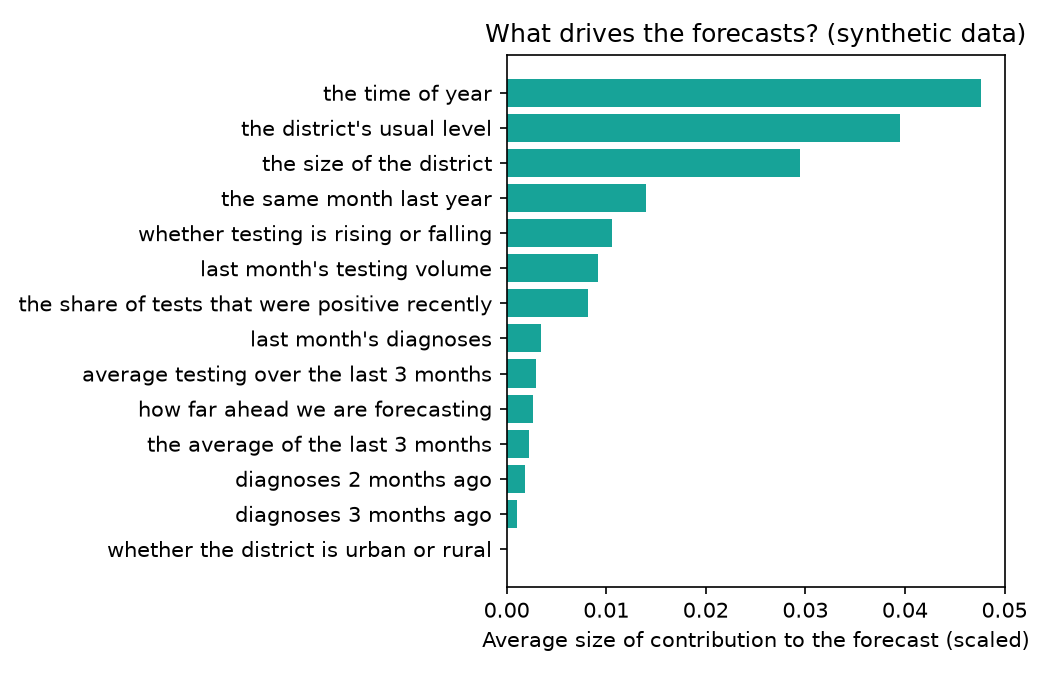
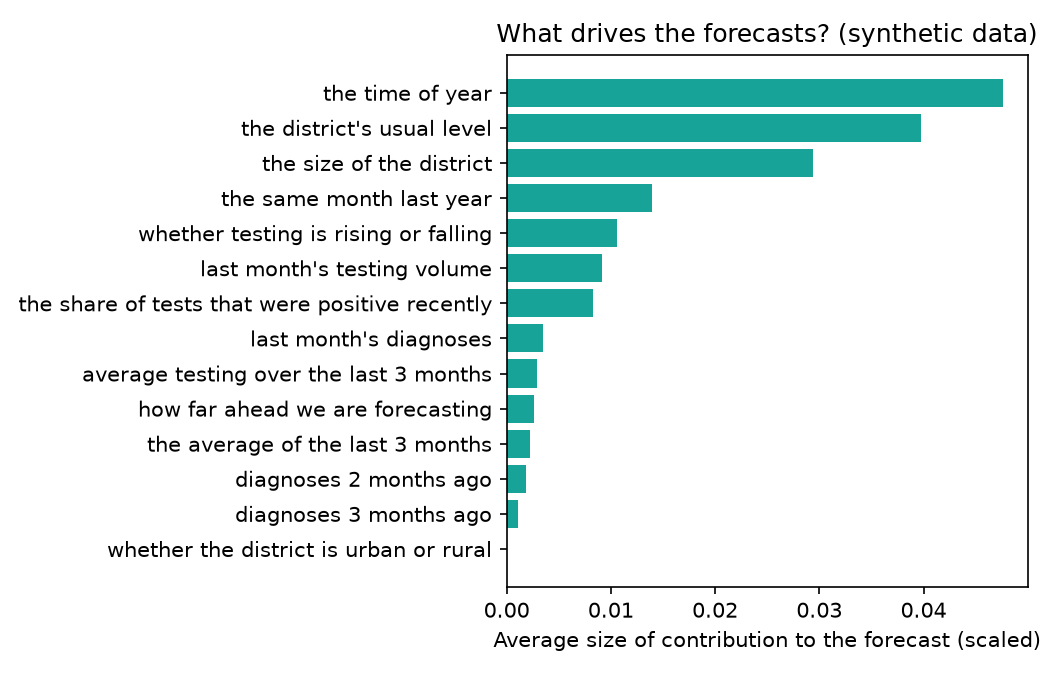
feat: add results report with equity tables

diff --git a/src/report.py b/src/report.py
@@ -1,0 +1,128 @@
+"""Run every experiment and write ONE results document: docs/results.md
+
+This is the evidence for the project: baselines vs gradient boosting, the ablation,
+interval honesty (coverage, WIS), and equity breakdowns by urban/rural and district size.
+
+Run:  python src/report.py        (about 1 minute)
+"""
+from datetime import date
+from pathlib import Path
+
+import pandas as pd
+
+from evaluate import FIRST_ORIGIN, HORIZON, STEP, rolling_origin
+from gbm import TESTING_FEATURES, gbm_rolling_origin
+from intervals import interval_rolling_origin
+
+
+def md_table(df, index_name="", digits=2):
+    """Small markdown table writer (no extra libraries needed)."""
+    cols = list(df.columns)
+    head = "| " + " | ".join([index_name] + [str(c) for c in cols]) + " |"
+    rule = "|" + "---|" * (len(cols) + 1)
+    rows = []
+    for idx, row in df.iterrows():
+        cells = [f"{v:.{digits}f}" if isinstance(v, float) else str(v) for v in row]
+        rows.append("| " + " | ".join([str(idx)] + cells) + " |")
+    return "\n".join([head, rule] + rows)
+
+
+def mase_table(res, by):
+    return res.pivot_table(index="model", columns=by, values="scaled_error").round(2)
+
+
+def main():
+    df = pd.read_csv("data/synthetic/district_months.csv")
+    print("Running baselines ...")
+    acc = pd.concat([
+        rolling_origin(df),
+        gbm_rolling_origin(df),
+        gbm_rolling_origin(df, exclude=TESTING_FEATURES, name="gbm_no_testing"),
+    ], ignore_index=True)
+    print("Running intervals ...")
+    iv = interval_rolling_origin(df)
+
+    overall = acc.groupby("model")["scaled_error"].mean().round(3).to_frame("MASE")
+    best_base = overall.loc[["naive", "seasonal_naive", "exp_smoothing"], "MASE"].min()
+    gain = (1 - overall.loc["gbm", "MASE"] / best_base) * 100
+
+    parts = []
+    for col in ["horizon", "urban_rural", "size_class", "campaign"]:
+        t = iv.groupby(col).agg(coverage_80=("in80", "mean"), coverage_95=("in95", "mean"),
+                                WIS=("wis_scaled", "mean"), n=("in80", "size")).round(3)
+        t["n"] = t["n"].astype(int)
+        parts.append(f"**By {col}**\n\n" + md_table(t, col, 3))
+
+    g = mase_table(acc, "urban_rural")
+    gs = mase_table(acc, "size_class")
+    gap_rows = pd.DataFrame({
+        "gbm MASE": [g.loc["gbm", "rural"], g.loc["gbm", "urban"], gs.loc["gbm", "small"], gs.loc["gbm", "large"]],
+    }, index=["rural", "urban", "small districts", "large districts"])
+
+    text = f"""# Results (SYNTHETIC DATA ONLY)
+
+Generated {date.today().isoformat()} by `src/report.py`. These results show that the workflow
+works. They say NOTHING about Malawi, because the data were generated by `src/generate_data.py`.
+
+## Setup
+- Target: monthly new HIV diagnoses per district (a proxy for infections; depends on testing)
+- {df['district'].nunique()} districts x {df['month_index'].nunique()} months; {int(df['new_diagnoses'].isna().sum())} blank months ({df['new_diagnoses'].isna().mean():.1%})
+- Evaluation: rolling origin, first cut-off month {FIRST_ORIGIN}, every {STEP} months, horizons 1 to {HORIZON}
+- Metric: MASE (1.0 = about as good as repeating last month; lower is better)
+
+## 1. Accuracy
+Overall MASE by model:
+
+{md_table(overall, "model", 3)}
+
+Gradient boosting is {gain:.0f}% better than the best baseline overall.
+
+**By horizon (months ahead)**
+
+{md_table(mase_table(acc, "horizon"), "model")}
+
+**By urban/rural**
+
+{md_table(g, "model")}
+
+**By district size**
+
+{md_table(gs, "model")}
+
+**Campaign months (1) vs normal months (0)**
+
+{md_table(mase_table(acc, "campaign"), "model")}
+
+## 2. Ablation: does knowing about testing help?
+`gbm_no_testing` hides the four testing inputs. If its score is close to `gbm`, the gain over
+the baselines does not come from testing information.
+
+## 3. Interval honesty
+80% and 95% prediction intervals from quantile gradient boosting. Coverage is the share of
+real outcomes inside the interval (targets: 0.80 and 0.95). WIS is the scaled weighted interval score.
+
+Overall: coverage 80% = {iv.in80.mean():.3f}, coverage 95% = {iv.in95.mean():.3f}, WIS = {iv.wis_scaled.mean():.3f}
+
+""" + "\n\n".join(parts) + f"""
+
+## 4. Equity summary (gradient boosting)
+
+{md_table(gap_rows, "group", 2)}
+
+Rural districts and small districts are harder to forecast. Campaign months break every method.
+Group sizes differ greatly (see n above), so small differences should not be over-interpreted.
+
+## 5. Limitations
+- Synthetic data: patterns were built in by us, so results are optimistic and not about Malawi
+- Diagnoses are a proxy for infections and depend on testing; campaign timing is unknown to the models
+- No tuning: gradient boosting settings were chosen once, not optimised
+- Forecasts from the same district are correlated, so effective sample sizes are smaller than n
+- Intervals are mildly overconfident and fail in campaign months
+"""
+    Path("docs").mkdir(exist_ok=True)
+    Path("docs/results.md").write_text(text)
+    print("Wrote docs/results.md")
+
+
+if __name__ == "__main__":
+    main()

diff --git a/tests/test_report.py b/tests/test_report.py
@@ -1,0 +1,12 @@
+import sys
+from pathlib import Path
+
+import pandas as pd
+
+sys.path.insert(0, str(Path(__file__).resolve().parents[1] / "src"))
+from report import md_table  # noqa: E402
+
+
+def test_md_table_layout():
+    t = md_table(pd.DataFrame({"a": [1.234]}, index=["x"]), "name", 2)
+    assert t.splitlines() == ["| name | a |", "|---|---|", "| x | 1.23 |"]

diff --git a/docs/results.md b/docs/results.md
@@ -1,0 +1,125 @@
+# Results (SYNTHETIC DATA ONLY)
+
+Generated 2026-11-05 by `src/report.py`. These results show that the workflow
+works. They say NOTHING about Malawi, because the data were generated by `src/generate_data.py`.
+
+## Setup
+- Target: monthly new HIV diagnoses per district (a proxy for infections; depends on testing)
+- 28 districts x 72 months; 105 blank months (5.2%)
+- Evaluation: rolling origin, first cut-off month 36, every 3 months, horizons 1 to 6
+- Metric: MASE (1.0 = about as good as repeating last month; lower is better)
+
+## 1. Accuracy
+Overall MASE by model:
+
+| model | MASE |
+|---|---|
+| exp_smoothing | 0.855 |
+| gbm | 0.755 |
+| gbm_no_testing | 0.751 |
+| naive | 1.100 |
+| seasonal_naive | 1.006 |
+
+Gradient boosting is 12% better than the best baseline overall.
+
+**By horizon (months ahead)**
+
+| model | 1 | 2 | 3 | 4 | 5 | 6 |
+|---|---|---|---|---|---|---|
+| exp_smoothing | 0.86 | 0.92 | 0.83 | 0.82 | 0.86 | 0.84 |
+| gbm | 0.76 | 0.78 | 0.74 | 0.75 | 0.76 | 0.75 |
+| gbm_no_testing | 0.76 | 0.78 | 0.73 | 0.75 | 0.74 | 0.74 |
+| naive | 0.98 | 1.09 | 1.07 | 1.08 | 1.21 | 1.17 |
+| seasonal_naive | 0.95 | 1.07 | 1.06 | 0.92 | 1.01 | 1.03 |
+
+**By urban/rural**
+
+| model | rural | urban |
+|---|---|---|
+| exp_smoothing | 0.86 | 0.80 |
+| gbm | 0.77 | 0.66 |
+| gbm_no_testing | 0.76 | 0.65 |
+| naive | 1.11 | 1.04 |
+| seasonal_naive | 1.02 | 0.93 |
+
+**By district size**
+
+| model | large | medium | small |
+|---|---|---|---|
+| exp_smoothing | 0.77 | 0.85 | 0.91 |
+| gbm | 0.68 | 0.74 | 0.82 |
+| gbm_no_testing | 0.68 | 0.74 | 0.82 |
+| naive | 1.04 | 1.08 | 1.17 |
+| seasonal_naive | 0.91 | 0.99 | 1.09 |
+
+**Campaign months (1) vs normal months (0)**
+
+| model | 0 | 1 |
+|---|---|---|
+| exp_smoothing | 0.83 | 1.36 |
+| gbm | 0.72 | 1.28 |
+| gbm_no_testing | 0.72 | 1.29 |
+| naive | 1.08 | 1.43 |
+| seasonal_naive | 0.98 | 1.42 |
+
+## 2. Ablation: does knowing about testing help?
+`gbm_no_testing` hides the four testing inputs. If its score is close to `gbm`, the gain over
+the baselines does not come from testing information.
+
+## 3. Interval honesty
+80% and 95% prediction intervals from quantile gradient boosting. Coverage is the share of
+real outcomes inside the interval (targets: 0.80 and 0.95). WIS is the scaled weighted interval score.
+
+Overall: coverage 80% = 0.747, coverage 95% = 0.915, WIS = 0.331
+
+**By horizon**
+
+| horizon | coverage_80 | coverage_95 | WIS | n |
+|---|---|---|---|---|
+| 1 | 0.755 | 0.926 | 0.316 | 298.000 |
+| 2 | 0.746 | 0.883 | 0.363 | 291.000 |
+| 3 | 0.746 | 0.907 | 0.330 | 291.000 |
+| 4 | 0.728 | 0.930 | 0.310 | 298.000 |
+| 5 | 0.779 | 0.907 | 0.340 | 289.000 |
+| 6 | 0.727 | 0.935 | 0.331 | 293.000 |
+
+**By urban_rural**
+
+| urban_rural | coverage_80 | coverage_95 | WIS | n |
+|---|---|---|---|---|
+| rural | 0.750 | 0.917 | 0.336 | 1562.000 |
+| urban | 0.717 | 0.899 | 0.300 | 198.000 |
+
+**By size_class**
+
+| size_class | coverage_80 | coverage_95 | WIS | n |
+|---|---|---|---|---|
+| large | 0.715 | 0.927 | 0.300 | 386.000 |
+| medium | 0.768 | 0.929 | 0.324 | 813.000 |
+| small | 0.738 | 0.886 | 0.364 | 561.000 |
+
+**By campaign**
+
+| campaign | coverage_80 | coverage_95 | WIS | n |
+|---|---|---|---|---|
+| 0 | 0.761 | 0.922 | 0.312 | 1662.000 |
+| 1 | 0.500 | 0.786 | 0.668 | 98.000 |
+
+## 4. Equity summary (gradient boosting)
+
+| group | gbm MASE |
+|---|---|
+| rural | 0.77 |
+| urban | 0.66 |
+| small districts | 0.82 |
+| large districts | 0.68 |
+
+Rural districts and small districts are harder to forecast. Campaign months break every method.
+Group sizes differ greatly (see n above), so small differences should not be over-interpreted.
+
+## 5. Limitations
+- Synthetic data: patterns were built in by us, so results are optimistic and not about Malawi
+- Diagnoses are a proxy for infections and depend on testing; campaign timing is unknown to the models
+- No tuning: gradient boosting settings were chosen once, not optimised
+- Forecasts from the same district are correlated, so effective sample sizes are smaller than n
+- Intervals are mildly overconfident and fail in campaign months
